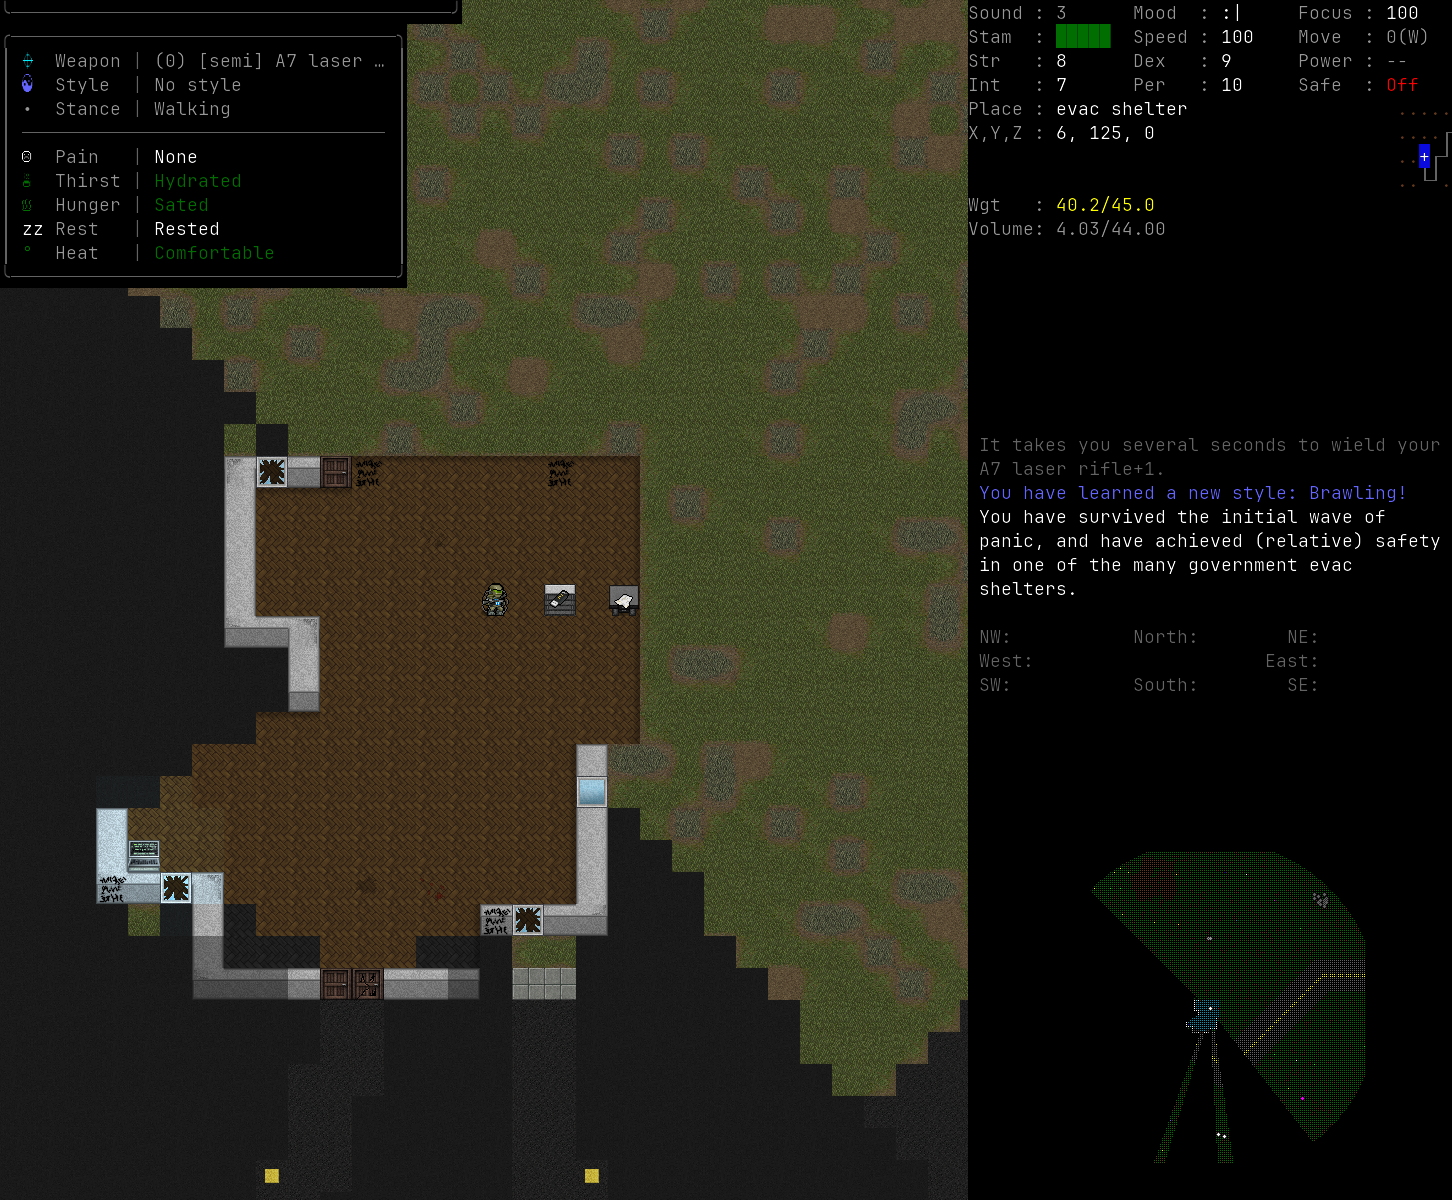
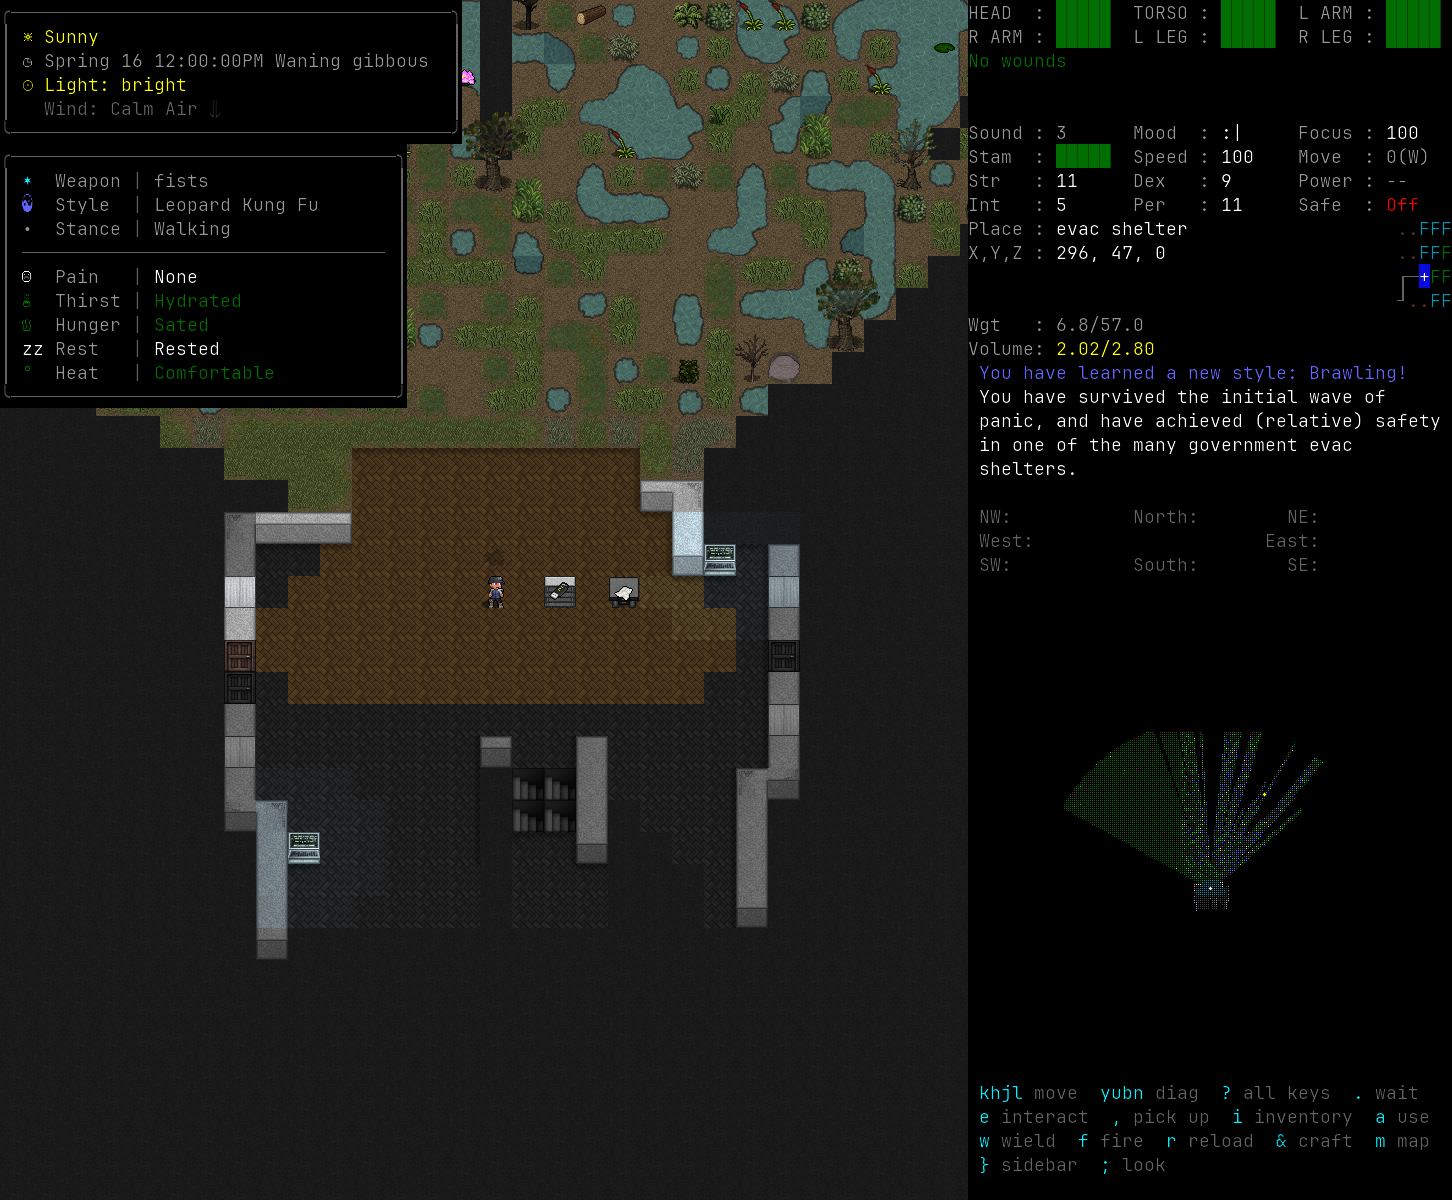
docs: refresh verified feature screenshots and runtime results

diff --git a/NEXT.md b/NEXT.md
@@ -6,22 +6,24 @@
   future work, neither implemented nor closable. #3 is the upstream feature-watch tracker; its
   checkpoint matches `upstream/main` and every candidate is still unchecked. #14 asks for number-key
   rows with item thumbnails in list menus (SotS: The Pit style); #15 covers the README download
-  badges that still point at upstream releases. #16's balanced shards, readiness polling and
-  local parallel runner are merged. Its remaining phases are the slow-test key-delay audit and
-  prepared save fixtures; keep the issue open until its CI timing acceptance is measured.
+  badges that still point at upstream releases. #16's duration-based shards, readiness polling and
+  local parallel runner are merged. Keep the issue open: its remaining phases are the slow-test
+  key-delay audit and prepared save fixtures, and the observed CI shard spread is still 29.6%,
+  above its 10% target.
 
-  - **E2E runtime verified locally**: `python3 tests/e2e/run.py --parallel=4` passed 141/141 in
-    593 seconds. The refreshed manifest has all 141 tests; actual shard test totals were
-    580/563/568/572 seconds (3.1% spread), and the two mouse tests took 167 seconds combined.
-    Reload fixtures clear earlier wounds and trait-dependent morale; the sleep fixture has
-    debug storage so its watch cannot fall out of an over-capacity starting outfit.
+  - **E2E runtime verified**: the final local parallel run passed 141/141 in 593 seconds.
+    [CI run 39625972735](https://github.com/Kenja-mc/Cataclysm-BN/actions/runs/39625972735)
+    passed all 141 tests in four jobs, with the slowest job taking 15m12s including its build.
+    Total CI test time was 2610.5 seconds; the two mouse tests took 190.6 seconds combined.
+    Reloading waits for each menu and loaded round. Its fixture clears earlier wounds and morale;
+    the sleep fixture has storage so its watch cannot fall out of a full starting outfit.
     Data checking reported no errors. All five upstream unit shards exited 0 using software
-    Vulkan; the suite reported one expected failure and skipped translation checks without MO files.
+    Vulkan; one test failed as expected and translation checks skipped missing MO files.
   - **CI workflow changes merged**: the cross-platform matrix runs weekly and on dispatch.
     Pushes check one dry playtest leg; filtered dry dispatches retain their requested surface.
-    The end-to-end cap is 90 minutes because a cold build alone took 37 minutes. Final CI on
-    the combined changes is pending; the embedded plan passed push, schedule, live/dry dispatch
-    and no-key tiles-filter cases locally.
+    The end-to-end cap is 90 minutes because a cold build alone took 37 minutes. The final
+    modern keyboard-and-mouse tiles dispatch passed both dry scenarios. Live model legs and
+    nightly triage remain unverified without model secrets.
 - **Next upstream merge** — the 2026-10-20 merge is `c682cb343a` (34 commits, base
   `5196022810`). It resolved five conflicts: `tankammo.json` and `generic/casing.json` keep
   upstream's `stackable`/`damage_states` and the fork's `looks_like`; `rifle ammo.json` keeps the
@@ -33,11 +35,11 @@
   `data/json/uncraft/ammo/rifle ammo.json`, `data/json/recipes/ammo/rifle.json`,
   `data/mods/exotic_ammo/uncrafts/ammo.json`), keep the new non-`bp_` entries, and re-check the
   `277_hybrid` recipe and the `Enter → Misc` action list.
-- **Regenerate the feature screenshots** — `tests/e2e/feature_shots.py` now detects a capture that
-  did not change the screen (three shipped images were byte-identical), gives the body-panel shot a
-  wounded fixture, and opens crafting with `i` then F5 instead of the classic `&`. Run
-  `python3 tests/e2e/feature_shots.py` once no other game work is running and check that the weather
-  box appears in the HUD shots; the page is rewritten in place.
+- **Feature screenshots refreshed**: all ten captures from green CI run 39625972735 are published
+  in `docs/fork/images/features/`. The HUD weather boxes, wounded body panel, Interact command
+  list, shifted look selection and actual Sidebar Options editor were visually checked.
+  The generator applies options to both compile-time config-directory modes and cleans up
+  failed launches. Its modifier keys are sent as chords, not separate taps.
 - **Community difficulty thread** — [`docs/fork/reddit-1x5xk5g-proposals.md`](docs/fork/reddit-1x5xk5g-proposals.md)
   collects what r/cataclysmbn asked for after one post about Bright Nights becoming easy. Most of it is
   balance work, which the fork rules leave out of scope.
@@ -52,6 +54,9 @@
   `pacman -S --needed ccache mold astyle`. The commits below were built and gated with them
   disabled (`-DCATA_CCACHE=OFF -DCMAKE_C_COMPILER_LAUNCHER= -DCMAKE_CXX_COMPILER_LAUNCHER= -DLINKER=`),
   so no astyle pass has reformatted the tree.
+- **Local tiles binary is stale**: it reports `60e711cc78` and rejects current data. Rebuild it
+  from a clean source tree before local tiles verification; the tiles checks above used CI's
+  freshly built binaries. The uncommitted HUD experiment remains untouched.
 - **Release workflows stay disabled** — Nightly Release, Experimental Release and Manual release are
   off; `gh workflow enable "<name>"` re-enables them. The nightlies need an initial `YYYY-MM-DD` tag
   and an `experimental` release before they can pass, and `docs.yml` chains off Experimental Release.
@@ -59,11 +64,6 @@
   `fork-playtest` run to `/home/kenja/.local/state/cataclysm-bn/playtest-watch.log`. If the service is
   gone after a restart, read the runs straight from GitHub with
   `gh run list --workflow fork-playtest.yml --repo Kenja-mc/Cataclysm-BN`.
-- **CI state** — `fork-playtest.yml` is green end to end without model secrets: the plan job names the
-  legs, one dry playtest leg runs, and the end-to-end suite passes 140/140 across four shards, because
-  a single runner cannot finish the suite inside a two-hour job. A dispatch run also captured all ten
-  feature screenshots. Still unproven on CI: the live model legs, the nightly triage job, and the two
-  API shapes the first live run checks.
 - The `matrix` workflow's red `clang, curses` job is a pre-existing cache-save error: with a warm
   ccache every compile is a hit, so the directory the action wants to save never appears.
 - **Two CI traps worth remembering** — a leg matrix built from a job output must go on `matrix:` as the

diff --git a/docs/fork/feature-screenshots.md b/docs/fork/feature-screenshots.md
@@ -13,7 +13,7 @@ python3 tests/e2e/feature_shots.py
 
 ![Modern HUD](images/features/hud-modern.png)
 
-The fork draws its readings in boxes: weapon and style, stance, needs, mood, sound and stats. The sidebar keeps the message log, the compass and the pixel minimap.
+Weather and time sit above the weapon, style, stance and needs boxes. The sidebar keeps the limb bars, sound, mood, stats, message log, compass and pixel minimap.
 
 ## Classic HUD
 
@@ -31,7 +31,7 @@ Enter opens every command group: Items, Interact, Info, Misc, crafting, vehicles
 
 ![Interact menu: quick stack and sort pile](images/features/interact-menu.png)
 
-Space opens Interact. Quick stack moves carried items into nearby storage that already holds them, and sort pile sorts the stack under the player without sorting zones.
+Enter, then Interact, opens this menu. Quick stack moves carried items into nearby storage that already holds them, and sort pile sorts the player's pile without sorting zones.
 
 ## Inventory with item variants
 
@@ -49,7 +49,7 @@ The crafting menu opens on a tab with recipes to make. The parts chain shows wha
 
 ![Look around and tile selection](images/features/look.png)
 
-Shift and a direction moves the cursor without spending a turn. The tile under the cursor shows what it holds, and Enter selects it for the next action.
+Shift and a direction inspects the adjacent tile without spending a turn. The tile inspector shows what it holds, and Space interacts with the selected tile.
 
 ## Map and minimap
 
@@ -61,7 +61,7 @@ The map opens on the local area with the pixel minimap the fork keeps on by defa
 
 ![Sidebar options from the Enter menu](images/features/sidebar-options.png)
 
-Modern leaves the panel key unbound. Enter, then Misc, opens Sidebar Options, where the panels can be moved, hidden and reordered.
+Modern leaves the panel key unbound. Enter, then Misc, then Sidebar Options opens the editor, where the panels can be moved, hidden and reordered.
 
 ## Body panel and limb details
 

diff --git a/CHANGELOG-OVERHAUL.md b/CHANGELOG-OVERHAUL.md
@@ -13,6 +13,9 @@ Upstream's own changes are in `docs/en/game/changelog`.
 - Tiles playtests and screenshot captures apply deterministic options to both config-directory
   modes. CI builds had ignored the XDG-only copy, leaving rain and blinking enabled so frame
   waits timed out. Failed screenshot launches now close their game window before the next shot.
+- Refreshed all ten feature screenshots from a verified tiles CI run. The capture script now opens
+  Interact through the command hub, reaches the Sidebar Options editor and holds Shift with the
+  look direction; captions match the current controls.
 
 ## 2026-10-20
 
